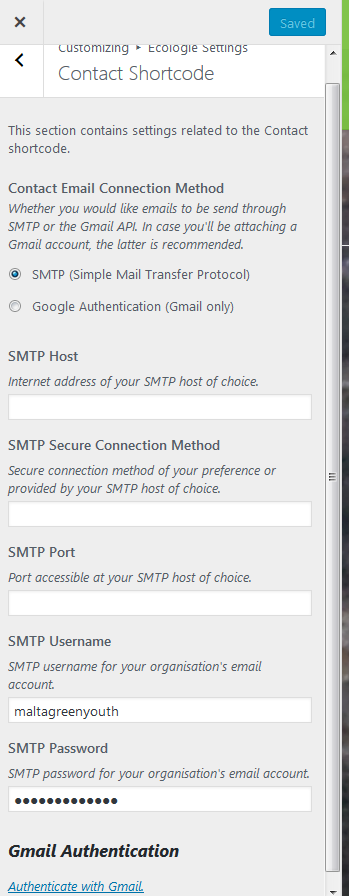
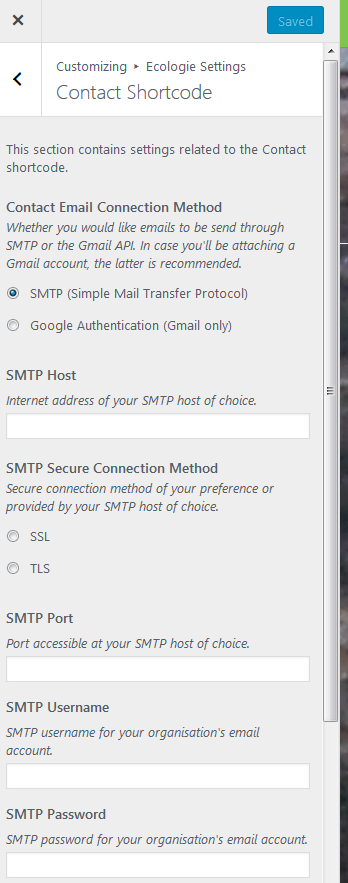
screenshot updates

diff --git a/README.md b/README.md
@@ -178,6 +178,8 @@ This section contains settings related to the Contact shortcode.
 
 ![Contact Shortcode](https://github.com/dannydes/ecologie/raw/master/screenshots/customiser-settings/contact-shortcode.png "Contact Shortcode")
 
+![Contact Shortcode](https://github.com/dannydes/ecologie/raw/master/screenshots/customiser-settings/contact-shortcode2.png "Contact Shortcode")
+
 ### Contact Email Connection Method
 Whether you would like emails to be send through SMTP or the Gmail API. In case you'll be attaching a Gmail account, the latter 
 is recommended.
